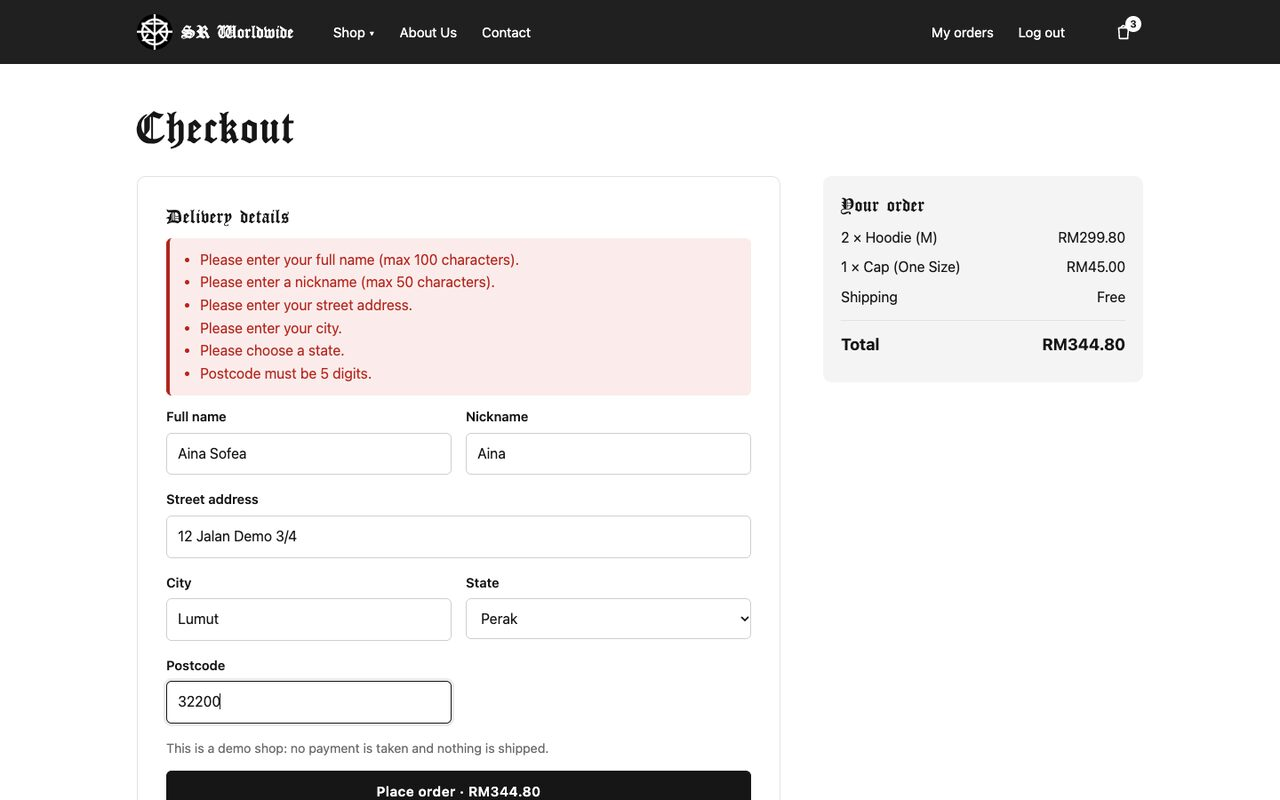
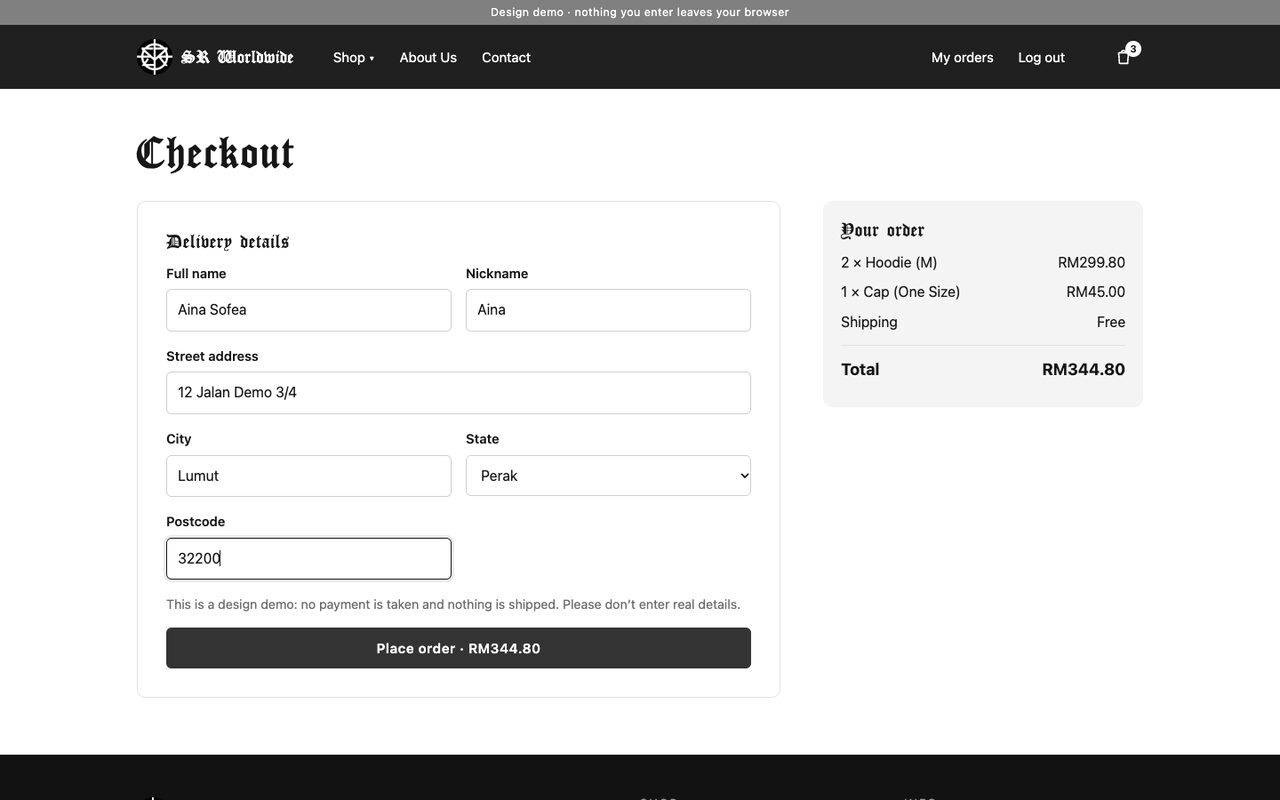
Update README and screenshots for the design-only version

diff --git a/README.md b/README.md
@@ -1,33 +1,39 @@
 # SR Worldwide
 
-A streetwear e-commerce website (tops, bottoms and accessories) built with **plain PHP 8 and MySQL**, no framework.
-It began as my Semester 1 group project at TVETMARA Lumut (2025) and was rebuilt from scratch in 2026 as a
-clean, secure, mobile-first portfolio project.
+A streetwear e-commerce **website design** (tops, bottoms and accessories) built with plain **HTML, CSS and JavaScript**.
+It began as my Semester 1 group project at TVETMARA Lumut (2025) and was redesigned in 2026 as a modern,
+mobile-first portfolio piece.
+
+**🔗 Live demo: https://shahredza.github.io/sr-worldwide/**
 
 ![Home page](docs/screenshots/home.jpg)
 
-## Features
+> **Design demo.** There's no server or database. Products come from a JavaScript file, and the cart,
+> demo account, orders and messages are saved only in your own browser (localStorage). Nothing you type is sent anywhere.
+>
+> The full **PHP + MySQL** version (real database, sessions, CSRF protection, image uploads) is on the
+> [`php-mysql-version`](https://github.com/shahredza/sr-worldwide/tree/php-mysql-version) branch.
+
+## What you can try
 
 **Shop**
 - Home page with hero, shop-by-category tiles, featured products and the brand mission ("What Drives Us")
-- Category pages (Tops, Bottoms, Accessories) loaded from the database, with sorting by newest or price
+- Category pages (Tops, Bottoms, Accessories) with sorting by newest or price
 - Product pages with front/back image gallery, size picker and quantity
-- Session-based cart: update quantities, remove items, live total
-- Checkout that saves the order and its items in a database transaction (keeps the original delivery fields:
-  full name, nickname, street, city, state, postcode)
-- About Us, Contact (messages stored in the database) and Privacy Policy pages
+- Cart: update quantities, remove items, live total, badge in the header
+- Checkout with the original delivery fields (full name, nickname, street, city, state, postcode) and form validation
+- About Us, Contact and Privacy Policy pages
 
-**Customer accounts**
+**Customer account (demo)**
 - Register with email, password and birthday (same password rule as the original: 8+ characters with upper case, lower case and a number)
-- Log in / log out, and a **My orders** page with order status
+- Log in / log out, and a **My orders** page. Passwords are never stored.
 
-**Admin dashboard** (`/admin/`)
-- Stats: revenue, orders, pending orders, live products, customers
-- Products: add, edit, hide/show, delete, with **image upload**
-- Orders: filter by status, view items, update status (pending → paid → shipped → completed / cancelled)
-- Users list with order count and total spent
-- Contact messages: mark read/unread, delete
-- No public admin sign-up page: admins are created with the seed file or a CLI script
+**Admin screens** at [`/admin/`](https://shahredza.github.io/sr-worldwide/admin/login.html), log in with **`admin` / `admin123`** (demo only)
+- Dashboard with revenue, orders, pending orders, products and customers
+- Products list and add/edit form with image upload validation (type and size)
+- Orders: filter by status, view items, change status
+- Users and contact messages (mark read/unread, delete)
+- Admin screens show sample data **plus** any orders and messages you create in the shop, so you can follow an order from checkout to "shipped".
 
 ## Screenshots
 
@@ -47,105 +53,51 @@ clean, secure, mobile-first portfolio project.
 
 ![Mobile views](docs/screenshots/mobile.jpg)
 
-## Tech stack
+## Tech
 
-- PHP 8.3 (no framework), PDO
-- MySQL 8
-- HTML, CSS (custom, mobile-first, no CSS framework), vanilla JavaScript (no jQuery)
-- Developed on MAMP (Apache + MySQL) on macOS
+- HTML5, CSS3 (custom, mobile-first, no CSS framework), vanilla JavaScript (no jQuery, no build step)
+- Hosted on GitHub Pages
+- Accessible basics: semantic HTML, keyboard-friendly menu, focus styles, skip link, `prefers-reduced-motion`
+- All text inserted by JavaScript is escaped to avoid HTML injection
 
-## Security
+## Run it on your computer
 
-This project follows the basics every PHP site should have:
+No install needed: it's just files. Any static web server works, for example:
 
-- **SQL injection:** every query uses PDO prepared statements (emulated prepares turned off)
-- **Passwords:** `password_hash()` / `password_verify()`, rehashed automatically when the algorithm improves
-- **CSRF:** a token on every form (including logout), checked with `hash_equals()`
-- **XSS:** all output escaped with `htmlspecialchars()` through a small `e()` helper
-- **Sessions:** `session_regenerate_id()` on login and logout, HttpOnly + SameSite cookies, strict mode
-- **Brute force:** simple login throttling (5 failed attempts per 10 minutes)
-- **Uploads:** real MIME type checked with `finfo`, must be a valid image, 2 MB limit, random file names,
-  and an `.htaccess` that blocks scripts in the uploads folder
-- **Config:** database credentials live in `includes/config.php`, which is git-ignored; `display_errors` is off in production mode
-- Only `public/` is served by the web server: `includes/`, `database/` and `scripts/` are not reachable from the browser
+```bash
+git clone https://github.com/shahredza/sr-worldwide.git
+cd sr-worldwide
+python3 -m http.server 8000
+```
 
-## Run it locally with MAMP
+Then open **http://localhost:8000**. (Opening `index.html` directly also works for most pages.)
 
-1. **Install and start [MAMP](https://www.mamp.info/)** (Apache on port 8888, MySQL on port 8889, user `root` / password `root`).
-
-2. **Get the code**
-   ```bash
-   cd ~/Documents
-   git clone https://github.com/shahredza/sr-worldwide.git
-   ```
-
-3. **Serve the `public/` folder.** The easiest way is a symlink in MAMP's `htdocs`:
-   ```bash
-   ln -s ~/Documents/sr-worldwide/public /Applications/MAMP/htdocs/sr-worldwide
-   ```
-   The site will be at **http://localhost:8888/sr-worldwide/**.
-   (Or point MAMP's document root at the `public/` folder and set `base_url` to `''` in step 5.)
-
-4. **Create the database** in phpMyAdmin (http://localhost:8888/phpMyAdmin/):
-   - Click **New**, name it `sr_worldwide`, collation `utf8mb4_unicode_ci`, then **Create**
-   - With `sr_worldwide` selected, open **Import**, choose `database/schema.sql`, click **Import**
-   - Import `database/seed.sql` the same way (12 demo products and a demo admin)
-
-5. **Create your config file**
-   ```bash
-   cp includes/config.example.php includes/config.php
-   ```
-   The defaults already match MAMP. Set `'env' => 'development'` if you want to see PHP errors while working.
-
-6. Open **http://localhost:8888/sr-worldwide/** 🎉
-
-### Demo logins
-
-| Area | URL | Username | Password |
-| --- | --- | --- | --- |
-| Admin | `/sr-worldwide/admin/` | `admin` | `admin123` |
-| Customer | `/sr-worldwide/register.php` | register your own account | |
-
-> ⚠ **`admin / admin123` is a demo account only.** Change it before putting the site anywhere public:
-> `php scripts/create-admin.php admin` sets a new password (it also creates new admins).
-
-### Troubleshooting
-
-- **"Missing includes/config.php"**: you skipped step 5.
-- **"Forbidden" or a blank page on macOS:** Apache may not be allowed to read `~/Documents`. Give MAMP
-  *Full Disk Access* in System Settings → Privacy & Security, or move the project into `/Applications/MAMP/htdocs/`.
-- **Image upload fails:** make sure `public/assets/uploads/` is writable by Apache.
+To reset the demo, clear this site's data in your browser (or run `localStorage.clear()` in the console).
 
 ## Project structure
 
 ```
-public/              Web root: the only folder Apache serves
-  index.php          Home
-  shop.php           Product grid (all or ?cat=tops|bottoms|accessories)
-  product.php        Product detail + add to cart
-  cart.php           Cart
-  checkout.php       Checkout (login required)
-  account.php        My orders
-  login.php  register.php  logout.php
-  about.php  contact.php  privacy.php
-  admin/             Admin login, dashboard, products, orders, users, messages
-  assets/            css/, js/, images/, fonts/, products/ (demo photos), uploads/ (git-ignored)
-includes/            Bootstrap, DB connection, auth, CSRF, cart, upload helpers, layout
-database/            schema.sql, seed.sql
-scripts/             create-admin.php (CLI)
-legacy/              Original 2025 pages, kept unchanged for reference
-docs/screenshots/    Images used in this README
+index.html  shop.html  product.html  cart.html  checkout.html  account.html
+login.html  register.html  about.html  contact.html  privacy.html  404.html
+admin/              Admin screens: login, dashboard, products, product form, orders, users, messages
+assets/
+  css/              style.css (site), admin.css (admin)
+  js/               data.js (products + sample data), app.js (site), admin.js (admin)
+  images/           Logo, hero, cursor, about photos, social icons
+  products/         Product photos
+  fonts/            Gothic display font
+legacy/             Original 2025 files, kept for reference
+docs/screenshots/   Images used in this README
 ```
 
 ## Project history
 
-| | 2025: Semester 1 version | 2026: Rebuild |
+| | 2025: Semester 1 version | 2026: Redesign |
 | --- | --- | --- |
-| Pages | ~30 separate HTML/PHP files, one per product | Database-driven templates |
-| Products | Hard-coded in HTML | Stored in MySQL, managed in the admin |
-| Cart / checkout | "Buy now" form, address only | Session cart, order items, totals, order status |
-| Security | Some prepared statements, `display_errors` on, public admin registration | PDO everywhere, CSRF, escaping, session hardening, no public admin sign-up |
-| Design | Desktop-first, inline CSS per page, jQuery date picker, autoplay music | One mobile-first stylesheet, vanilla JS, no autoplay |
+| Pages | ~30 separate HTML/PHP files, one per product | Reusable templates driven by one product data file |
+| Design | Desktop-first, inline CSS on every page, jQuery date picker, autoplay music | One mobile-first stylesheet, vanilla JS, no autoplay |
+| Shop | "Buy now" form, address only | Cart, checkout, order history, admin order status |
+| Admin | Login + public "Register Admin" page | Dashboard, products, orders, users, messages; no public admin sign-up |
 
 The original files are in [`legacy/`](legacy/) for comparison.
 
@@ -153,6 +105,6 @@ The original files are in [`legacy/`](legacy/) for comparison.
 
 - **Muhammad Shah Redza**: design and development
 - Built as a Semester 1 project for *DFD10033 Big Data Programming Fundamental*, Diploma in Computer Technology (Big Data),
-  **TVETMARA Lumut** (IKM Lumut / MARA), January–June 2025. Rebuilt 2026.
+  **TVETMARA Lumut** (IKM Lumut / MARA), January–June 2025. Redesigned 2026.
 - Gothic display font and product photos come from the original 2025 student project.
-- This is a portfolio/demo shop: no real products are sold, no payments are taken.
+- This is a portfolio/demo shop: no real products are sold and no payments are taken.
